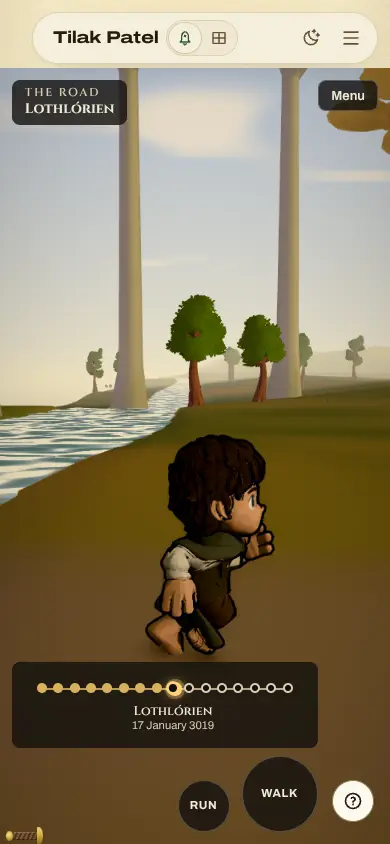
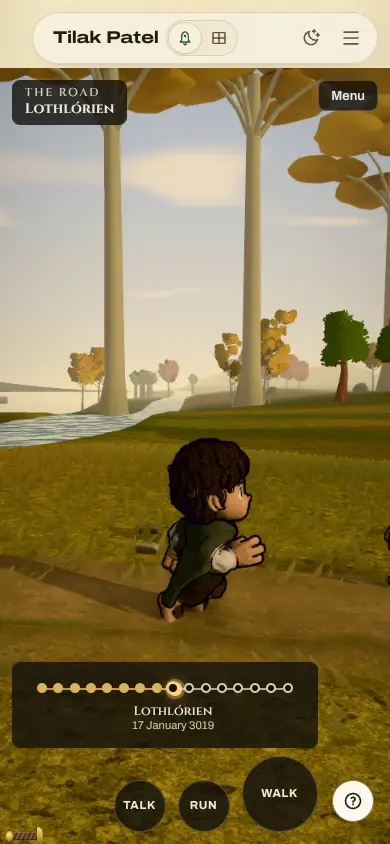
The Road’s evidence and hand-off: R7’s numbers at every stage, Done and Left
Claude-Session: https://claude.ai/code/session_016zS3M6mG9A4zxbZ5C1xuFt

diff --git a/docs/superpowers/evidence/the-road/README.md b/docs/superpowers/evidence/the-road/README.md
@@ -638,3 +638,98 @@ Looked at and right: Bree's gate and the Pony, the Green Dragon and the Party Fi
 - Moria's and Minas Tirith's chapters no longer ask `toNonIndexed` of geometry that already is.
 
 **And**: a jump (the ribbon, a stage's key) tells the page where the ride is in the same frame. It no longer waits for the next quarter second's progress.
+
+## R7, the numbers at every stage (2026-10-25)
+
+Every stage measured against the design’s goals (§2) after R7’s mends, in the container on `nodes-webgl` (SwiftShader). **The WebGPU rows are the owner’s laptop and desktop and are left empty**; nothing here is an estimate of them.
+
+### Each stage, high and low (`node lab/road/measure.mjs`, `QUALITY=high` and `low`)
+
+Each stage opened by its address in a fresh 1440 × 900 window, 6 s for the walkers to arrive, then one frame’s `renderer.info.render`: the scene and the sun’s cascades together. The assets are what that stage fetched from cold, alone; the UI is the share of the window under the Road’s own parts.
+
+| stage | draws high | triangles high | draws low | triangles low | assets MB (cold) | UI share |
+| --- | --- | --- | --- | --- | --- | --- |
+| hobbiton | 268 | 1,124,284 | 163 | 338,156 | 9.6 | 14.8 % (its title card up) |
+| shire-edge | 247 | 845,643 | 116 | 155,608 | 7.8 | 12.9 % |
+| bree | 295 | 1,020,600 | 161 | 210,279 | 8.9 | 12.8 % |
+| weathertop | 151 | 1,005,072 | 73 | 164,347 | 10.2 | 12.8 % |
+| ford | 110 | 627,753 | 57 | 97,211 | 11.8 | 14.7 % (its title card up) |
+| rivendell | 152 | 943,878 | 96 | 192,159 | 8.2 | 12.8 % |
+| caradhras | 46 | 350,085 | 58 | 112,580 | 4.6 | 12.8 % |
+| moria | 78 | 291,780 | 62 | 82,221 | 4.3 | 12.8 % |
+| lorien | 157 | 905,293 | 89 | 231,040 | 11.0 | 12.9 % |
+| anduin | 111 | 554,213 | 64 | 150,265 | 7.6 | 12.9 % |
+| marshes | 46 | 591,001 | 64 | 164,533 | 4.7 | 13.0 % |
+| ithilien | 94 | 737,953 | 89 | 128,235 | 9.3 | 12.7 % |
+| cirith-ungol | 121 | 306,289 | 56 | 69,443 | 5.3 | 12.9 % |
+| gorgoroth | 85 | 356,031 | 79 | 182,407 | 8.7 | 12.8 % |
+| minas-tirith | 142 | 668,928 | 116 | 259,121 | 5.5 | 11.6 % |
+| havens | 56 | 588,459 | 36 | 139,312 | 7.3 | 12.9 % |
+
+- **Draws**: 295 at most on high (against 350), 163 on low (against 200).
+- **Triangles**: 1,124,284 at most on high (against 1,200,000), 338,156 on low (against 400,000).
+- A single frame swings by a fifth as the scatter and the figures come in (Bree read 131 draws on one run and 295 on another; Hobbiton 1.00 to 1.17 million). The table is one run, every stage in it under.
+- **Before R7** on high: Hobbiton 368 draws and 1,538,722 triangles, the Shire’s edge 1,227,011; on low, Hobbiton 481 k and the Havens 418 k. What brought them under:
+  - *A band’s statics cast as one shape* (`stages/parts.js`’s `mergeStatics` and `CASTS`): the cascades drew every merged mesh a material a band, 127 of Hobbiton’s 230 shadow draws in one frame. Each half band’s opaque casters are now one positions-only mesh on a layer only the sun’s cameras see (`module.js` enables it on the light’s shadow camera, which the cascades clone), and the drawn meshes stop casting. Every stage built from merged statics gained: Rivendell 256 → 152 draws, Moria 115 → 78.
+  - *The Hill’s grass only over the Hill* (`ground.js`’s `patchOver`): the mounds’ patch of blades was the field’s count again, 187,500 triangles, drawn wherever the camera stood. It is drawn while a quarter of it lies over the mounds.
+  - *Hobbiton’s far corn and hedges* (`parts.js`’s `inReach`, the hedges within 120 m and the corn’s clumps within 100 m of the ride; the solids grid still takes them, `userData.far`).
+  - *The Shire’s wheat and hedge lighter* (`stages/shireLight.js`, the same size and colour at half the triangles or less) and the Shire’s edge’s clumps three rows deep at 0.8 m, the canopy brought in under them: 712 clumps were 359,000 triangles.
+  - *The Havens’ sea in 5 m rows*: the Gulf’s still sheet at 2 m was 361,000 of a low frame’s 418,000.
+- **The UI**: 11.6 to 13.0 % walking on a desktop (against 14), since the ribbon is at most 56 rem and centred (it was the stage’s width of glass, 9 % of a 1440 screen). The two over are the stage’s opening title card in its first seconds: at Hobbiton 7.6 % of the window, the Ford’s tale as long.
+- **The one page error** each row counted is three’s notice that WebGPU is missing in the container (“running under WebGL2 backend”), not a fault.
+
+### The ride (`clock.test.js`’s ledger, on auto)
+
+1,797 s from Bag End to the Havens (the design’s 20 to 30 minutes), every stage between 90 and 140 s (60 to 150):
+
+| stage | m | holds s | s on auto | stage | m | holds s | s on auto |
+| --- | --- | --- | --- | --- | --- | --- | --- |
+| hobbiton | 220 | 30 | 118 | lorien | 150 | 34 | 94 |
+| shire-edge | 175 | 34 | 104 | anduin | 170 | 42 | 110 |
+| bree | 150 | 30 | 90 | marshes | 150 | 42 | 102 |
+| weathertop | 165 | 46 | 112 | ithilien | 160 | 62 | 126 |
+| ford | 200 | 32 | 112 | cirith-ungol | 150 | 42 | 102 |
+| rivendell | 155 | 54 | 116 | gorgoroth | 180 | 60 | 132 |
+| caradhras | 170 | 47 | 115 | minas-tirith | 160 | 34 | 98 |
+| moria | 180 | 54 | 126 | havens | 290 | 24 | 140 |
+
+The deeds’ waits are the visitor’s and are not counted.
+
+### The download (`node lab/road/measure-ride.mjs`, high)
+
+One window opened at Bag End and carried stage by stage to the Havens by the world’s own jump, each stage held 10 s once current, every file counted once:
+
+| stage | MB fetched | MB so far | stage | MB fetched | MB so far |
+| --- | --- | --- | --- | --- | --- |
+| hobbiton (the boot) | 7.1 | 7.1 | lorien | 1.4 | 20.9 |
+| shire-edge | 2.3 | 9.5 | anduin | 1.0 | 21.9 |
+| bree | 2.0 | 11.5 | marshes | 0.0 | 21.9 |
+| weathertop | 2.8 | 14.3 | ithilien | 0.0 | 21.9 |
+| ford | 2.9 | 17.2 | cirith-ungol | 1.7 | 23.5 |
+| rivendell | 0.0 | 17.2 | gorgoroth | 1.4 | 24.9 |
+| caradhras | 0.4 | 17.6 | minas-tirith | 0.2 | 25.1 |
+| moria | 1.8 | 19.4 | havens | 1.0 | 26.1 |
+
+- **The boot slice** 7.1 MB (against 8); **the whole ride** 26.1 MB (against 45). `WORLD_MB['/middle-earth/road']` and the module’s `mb` are 27 (the spine’s guess was 8).
+- A stage that fetched nothing had its files fetched with its neighbour, a stage ahead. The table’s cold column above is larger, each stage there fetching its neighbours and the cast from nothing.
+- The first ride measure read 11.7 MB: a new address in the same window left the ride at Bree, and `measure-ride.mjs` jumps by `goTo` now.
+
+### The probe (`scripts/perf-probe.mjs road`)
+
+`#/middle-earth/road?at=moria`, the world up, 4 s settled, then the road walking itself; `GPU=webgl`, the container’s Chromium (SwiftShader). Low at 1440 × 900; High timed out there after 300 s of the canvas being resized in software (the first frame’s textures) and was taken at 960 × 600.
+
+| route | machine | drawn on | quality | ready s | fps | p50 ms | worst 1 % ms | main ms | GPU ms | draws | programs | late pipelines |
+| --- | --- | --- | --- | --- | --- | --- | --- | --- | --- | --- | --- | --- |
+| road | container | nodes-webgl | low | 41.9 | 1 | 37.4 | 15106.7 | 15.8 | - | 149 | 51 | 19 |
+| road | container | nodes-webgl | high (960 × 600) | 175.7 | 55.2 | 17.9 | 27.3 | 16.2 | - | 242 | 72 | 0 |
+| road | owner’s laptop | webgpu | high | | | | | | | | | |
+| road | owner’s desktop | webgpu | high | | | | | | | | | |
+
+The frame times are the software rasteriser’s. Low’s worst frames are shaders linked in the frame as the next stage came (one held `getProgramParameter` for 970 ms): the 19 late pipelines. Compiling each stage off the frame as `lands.js` finishes it is still the mend, the R2 note’s.
+
+### The phone, and reduced motion
+
+- **Four stages on a phone** (390 × 844; `shots/hobbiton-phone.webp`, `moria-phone.webp`, `lorien-phone.webp`, `havens-phone.webp`): the ribbon one row of dots with no overlap (the 44 px dots overlapped before the ribbon’s width was fixed), Walk, Run and Talk in the thumbs. Walking, the UI is the ribbon (7.9 %), the brand and the Menu: about a tenth. A stage’s opening title card takes 15 % of a phone for its first seconds (Hobbiton’s first-ride card 24 %), over the design’s 22 % with the ribbon while it is up.
+- **The company on a phone**: at the walk’s 50° a portrait frame saw ±12° across and the follow’s lead, ten degrees off its aim, stood at the edge or out of it. The director’s `fovFor` opens a frame narrower than 0.6 upward (58° on this phone), and in Lothlórien all eight stand inside it, Frodo at two thirds of the half-width (`lorien-phone.webp`). Hobbiton’s opening placed shot still has Frodo just off the right of a phone’s frame until he walks into it.
+- **Reduced motion** (`prefers-reduced-motion` emulated): the ride stands still (the clock at the same metre over ten seconds), the prompt is “Enter · Next”, and Enter steps to the next mark (at Bree, to the gate’s deed). A phone had no Next: the thumbs are Walk and a big Next there now, and the prompt’s click is Next too (the world’s `next()`).
+- In the lab a figure takes longer to load than a stage: a picture taken in the first seconds can have no company in it. The phone pictures were taken once the figures were in.

diff --git a/docs/superpowers/HANDOFF-the-road.md b/docs/superpowers/HANDOFF-the-road.md
@@ -6,6 +6,22 @@ Middle-earth as a journey: one continuous three.js ride from Bag End to the Grey
 
 - The design, the research note, the two plans, this hand-off (pull request: the design docs).
 
+## Done (2026-10-25, the Road)
+
+- **The ride**: one continuous ride from Bag End to the Grey Havens at `/middle-earth/road`, sixteen stages each built as its film moment from the chapters’ own builders, with fifty-one deeds to do, talk with the company, lore and title cards, carry on, and the end on the Red Book’s desk (`lotrRoad`). 1,797 s on auto.
+- **Within the design’s goals**, measured in the container (`evidence/the-road/README.md`, R7): draws 295 and 163 at most on high and low (350, 200), triangles 1.12 M and 338 k (1.2 M, 400 k), the boot 7.1 MB (8), the whole 26.1 MB (45; `WORLD_MB` 27), the UI 11.6 to 13 % walking on a desktop (14) and about a tenth on a phone (22).
+- **Reduced motion** stands the ride still with Next on a key, a click and a thumb; **a phone held upright** opens the field so the company stays in frame.
+
+## Left
+
+- **Task 35, the riders online** (optional; not begun): `road/riders.js` on `universe/shared/room.js`’s `joinAsVisitor` and `online.js`’s `createLimiter`, as the plan’s Task 35 says.
+- **The owner’s steps**: the Gollum figure (`public/models/middleearth/cast/gollum{,-idle,-walk,-run}.glb`, which `road/cast.js` prefers once it exists; the Marshes to Gorgoroth draw two hobbits until then); the voice run of `road/voicelines.js` through `scripts/voices` on the desktop (the lines show as words until then); horses with legs of their own only if the farm pack’s read wrong to the owner’s eye. The WebGPU rows of the probe, on the laptop and the desktop.
+- **Shaders built in the frame**: on low the probe counted 19 late pipelines, the worst a 970 ms link as the next stage came. Compile each stage off the frame as `lands.js` finishes it.
+- **A title card on a phone** takes 15 % of the screen for a stage’s first seconds (Hobbiton’s first-ride card 24 %), over the design’s 22 % with the ribbon while it is up.
+- **Hobbiton’s opening shot on a phone** has Frodo just off the right of the frame until he walks into it (a placed shot; `fovFor` widens the field but not that far).
+- **`M`** is bound (`module.js`’s `KEYS.map`) and does nothing: the map inset of the design was never built.
+- R4’s list of what still falls short (Caradhras’ flakes in the white-out, Moria’s goblins dark on the pillars, the Balrog’s fire cards, Lothlórien’s boats’ sitters standing, the Uruks at the horn out of shot, Tol Brandir far) stands.
+
 ## The lanes
 
 | lane | what | plan | tasks | branch | session | pull request | state |
@@ -17,7 +33,7 @@ Middle-earth as a journey: one continuous three.js ride from Bag End to the Grey
 | R4 stages 7 to 10 | Caradhras and the Doors, Moria, Lothlórien, the Anduin | the same | 23 to 26 | `claude/the-road-4-mountains` | 2026-10-19 (session_01UzfodGSzW2TB9FFiJxSmHP; session_01KdZySbYwzyVSuhX44PRfB5 took it at 14:32 while the first was measuring, not stalled) | #1112 | built, looked at and measured: the four stages, every beat under the targets on both tiers; the numbers and pictures in `evidence/the-road/README.md`; done: merged; next R5 (Task 27, the Marshes) |
 | R5 stages 11 to 14 | the Marshes and the Gate, Ithilien and the Vale, Cirith Ungol, Gorgoroth and the Mountain | the same | 27 to 30 | `claude/the-road-5-mordor`, finished on `claude/dazzling-ramanujan-ak1m8j` | 2026-10-19 (session_018jwwjWBJ86aYFYdmv9GjYB), 2026-10-20 (session_015Er4bG6AGb2eoh5zdZEaMK) | the R6 pull request | done: the four stages built and looked at (the Marshes, Ithilien and Cirith Ungol by the first session, merged in; Gorgoroth and the Mountain by the second), each with its deeds; the pictures in `evidence/the-road/README.md`; the per-beat numbers on both tiers not yet taken (R7) |
 | R6 the end | the White City, the Havens, the desk, the hub’s first step, the journal, the achievement | the same | 31 to 33 | `claude/dazzling-ramanujan-ak1m8j` | 2026-10-20 (session_015Er4bG6AGb2eoh5zdZEaMK) | | done: Tasks 31 (Minas Tirith, the chapter’s own city on the Road’s light, the crowning and the bow), 32 (the Havens, the quay, the white ship and the farewell) and 33 (the end on the Red Book’s desk, the hub’s first step, Watch the passage, the journal’s row, `lotrRoad`); next R7 |
-| R7 polish | the numbers at every stage, the phone, reduced motion, the docs, the riders online | the same | 34, 35 | `claude/the-road-7-polish` | 2026-10-24 (session_01JM4xiyQ1rSk8PzRFuERU6S), 2026-10-25 (session_016zS3M6mG9A4zxbZ5C1xuFt, after the first stalled) | | in progress: the ride first, desktop and phone, and the list of where it falls short |
+| R7 polish | the numbers at every stage, the phone, reduced motion, the docs, the riders online | the same | 34, 35 | `claude/the-road-7-polish` | 2026-10-24 (session_01JM4xiyQ1rSk8PzRFuERU6S), 2026-10-25 (session_016zS3M6mG9A4zxbZ5C1xuFt, after the first stalled) | the R7 pull request | done: Task 34 (every stage under the draws and triangles on high and low, the ride 1,797 s, the boot 7.1 MB and the whole 26.1 MB, the probe’s rows, the phone, reduced motion, the guide and the tour, the docs; the numbers in `evidence/the-road/README.md`); Task 35, the riders online, not begun (optional): see Left |
 
 A session takes the next lane whose state allows it, runs until its budget, merges what is green, fills its row and leaves the next unchecked task for the next session. A lane that does not finish in one session is continued on the same branch by the next.
 
@@ -130,7 +146,7 @@ A session takes the next lane whose state allows it, runs until its budget, merg
 - **The deeps have a floor** (2026-10-22): `daylight.js`'s `refFloor` holds the light the house look measures a point against at least to what the shade's floor stands for. Under Moria's black air that light was none, every glimmer read as full light, and the shade never came, so the halls drew black. A new storm of black air needs nothing more.
 - **What the laptop check found, for every world** (2026-10-22): three's Sprites share one geometry, and a group given back with its geometries freed took it from under every sprite still drawn, freezing WebGPU's frames: `runtime/webgpu.js`'s `keepSpriteGeometry` keeps it. `lib/three/pipelineGuard.js` builds a shader after the frame, when three has emptied the scene's lights: it now leaves a scene's lights in place once its render is over, or the chapters' lit materials drew black on WebGPU. A geometry a lit hook reads the normal of must have one (`grassNodes`' blades have one now, instanced, one element): three puts a zero there, and a normalize makes it NaN.
 
-## R7’s first measure (2026-10-25, for whoever carries the lane)
+## R7’s first measure (2026-10-25, the first session’s notes)
 
 Two sessions ran R7 at once: the first’s pushes were an hour apart while it measured, and the conductor took the lane up again. The first stood down once it saw the second’s commits; its work is merged into the branch. What it measured, every stage from its address after 6 s (`lab/road/measure.mjs`, the dev server, SwiftShader):
 
